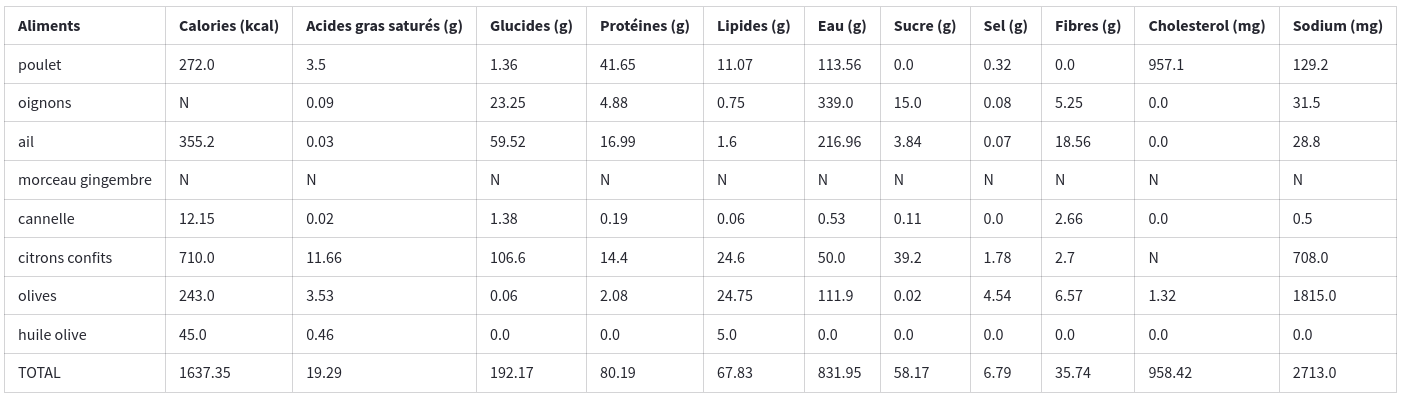
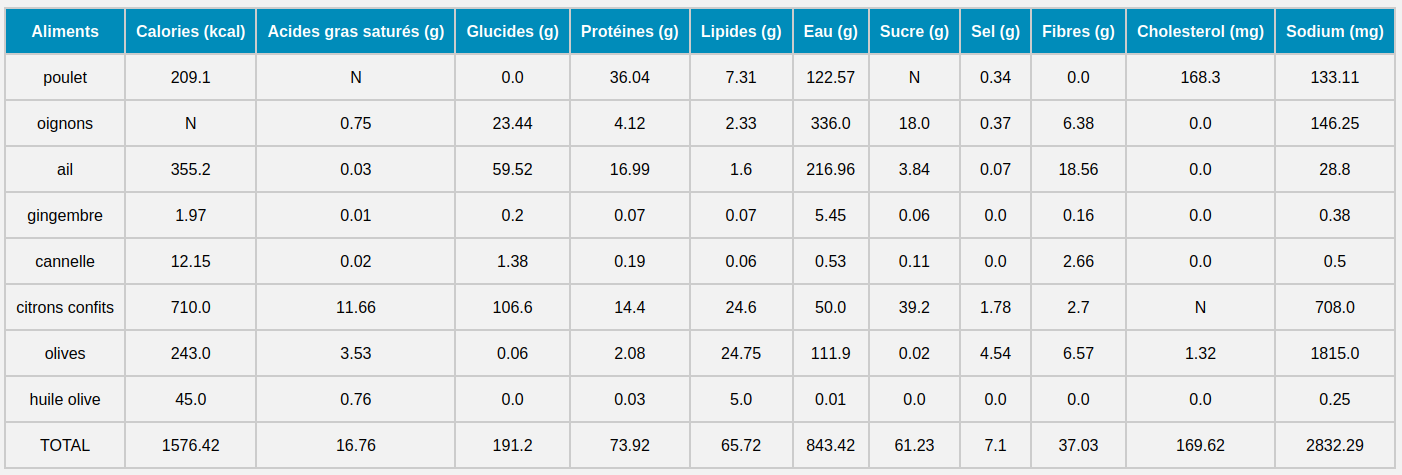
v4

diff --git a/templates/index.html b/templates/index.html
@@ -10,6 +10,11 @@
       <label for="ingredients">Entrez les ingrédients</label>
       <p>Exemple : 1 poulet, 3 oignons, 4 gousses d'ail, 1 morceau de gingembre (ou 2 c. à c. de gingembre en poudre), 
         1 c. à c. de cannelle, 2 petits citrons confits, 150 g d'olives, 1 c. à c. d'huile d'olive, poivre, persil (facultatif).</p>
+      <p>Si la ligne d'un produit est remplie de "N" vous pouvez essayer de :</p>
+      <ul>
+      <li>Ajouter une unité si vous en indiquez pas : <strong>50 g de crevettes</strong> au lieu de <strong>6 crevettes</strong>.</li>
+      <li>Modifier l'indication du produit de manière plus claire : <strong>250 g de cabillaud</strong> au lieu de <strong>gros morceau de poisson</strong>.</li>
+      </ul>
       <input type="text" name="ingredients" id="ingredients">
       <input type="submit" value="Convertir">
     </form>

diff --git a/static/css/index.css b/static/css/index.css
@@ -24,6 +24,16 @@ body {
     font-size: 30px;
   }
   
+  p {
+    text-align: left;
+    margin-left: 30px;
+  }
+
+  ul {
+    text-align: left;
+    margin-left: 35px;
+  }
+  
   input[type="text"] {
     padding: 10px;
     font-size: 16px;

diff --git a/algorithme.py b/algorithme.py
@@ -162,12 +162,12 @@ class MenageListFood():
     # Même idée MAIS on part directement de la liste bien tokenizée et on n'enlève les précisions inutiles
     self.rmpls2 = {"(?!\b[^\w\s]\b)[^\w\s '’ - ]":"", 
               "œ":"oe", # E DANS L'O
-              "['’ - ]":" "}
+              "[%'’ - ]":" "}
 
     self.pas_normaliser2 = ["maïs"]
 
     self.pres2 = ("appertis", "preemball", "rechauff", "reconstit", "cuit", "fait", "maison", "surgel", "fraich", "denoyaut", "egoutt", "nature", "enrichi")
-    self.entire_pres2 = ["frais", "pulpe", "cru", "crue", "peau", "pepin", "pepins"]
+    self.entire_pres2 = ["frais", "pulpe", "cru", "crue", "peau", "pepin", "pepins", "sale", "salee", "mg", "matiere", "grasse", "rayon", "precision"]
     self.list_food = list_food
 
     self.clean_list_food = self.menage2()
@@ -268,10 +268,11 @@ class Isolation():
     return self.rd_d
   
 class Conversion():
-    def __init__(self, rd_d, dict_poids):
+    def __init__(self, rd_d, dict_poids, pairs_infos):
         self.rd_d = copy.deepcopy(rd_d)
         self.spe_units_conversion = {"qirc":5, "qirs":15, "louche":150, "verre":180, "tasse":130, "bol":280}
         self.other_units_conversion = {"ml":1,"cl":10, "l":1000, "kg":1000}
+        self.pairs_infos = pairs_infos
 
         self.dict_poids = dict_poids
 
@@ -330,7 +331,7 @@ class Conversion():
                 try:
                     self.rd_d[i]["Quantity"].append(self.dict_poids[self.get_pair(self.rd_d[i]["Product"], self.dict_poids.keys())] * coeff_q)
                 except:
-                    pass
+                    self.pairs_infos[i]["Index"][0] = "N"
         return self.rd_d
 
     def spe_unity_fix(self):
@@ -383,11 +384,12 @@ class Calcul():
     def get_rows_ll(self):
         for i in range(len(self.rd_d_f)):
             self.all_rows[i].append(self.rd_d_f[i]["Product"])
-
-            coeff_100_g = self.rd_d_f[i]["Quantity"][0] / 100
+              
             index_nutrition = self.pairs_infos[i]["Index"][0]
 
             if index_nutrition != "N":
+                coeff_100_g = self.rd_d_f[i]["Quantity"][0] / 100
+            
                 for k, v in self.nutriments.items():
                     try:
                         self.all_rows[i].append(round(float(v[index_nutrition]) * coeff_100_g, 2))
@@ -633,7 +635,8 @@ def all(ingredients):
   pairage()
 
 
-  recette_decoupee_dict_fixed = Conversion(recette_decoupee_dict, dict_poids)
+  recette_decoupee_dict_fixed = Conversion(recette_decoupee_dict, dict_poids, pairs_infos)
+  pairs_infos = recette_decoupee_dict_fixed.pairs_infos
   recette_decoupee_dict_fixed = recette_decoupee_dict_fixed.convert()
 
   resultat = Calcul(recette_decoupee_dict_fixed, nutriments, pairs_infos)

diff --git a/TODO.md b/TODO.md
@@ -1,0 +1,2 @@
+- Meilleure nettoyage de newFood
+- Liste de poids moyens plus complète
